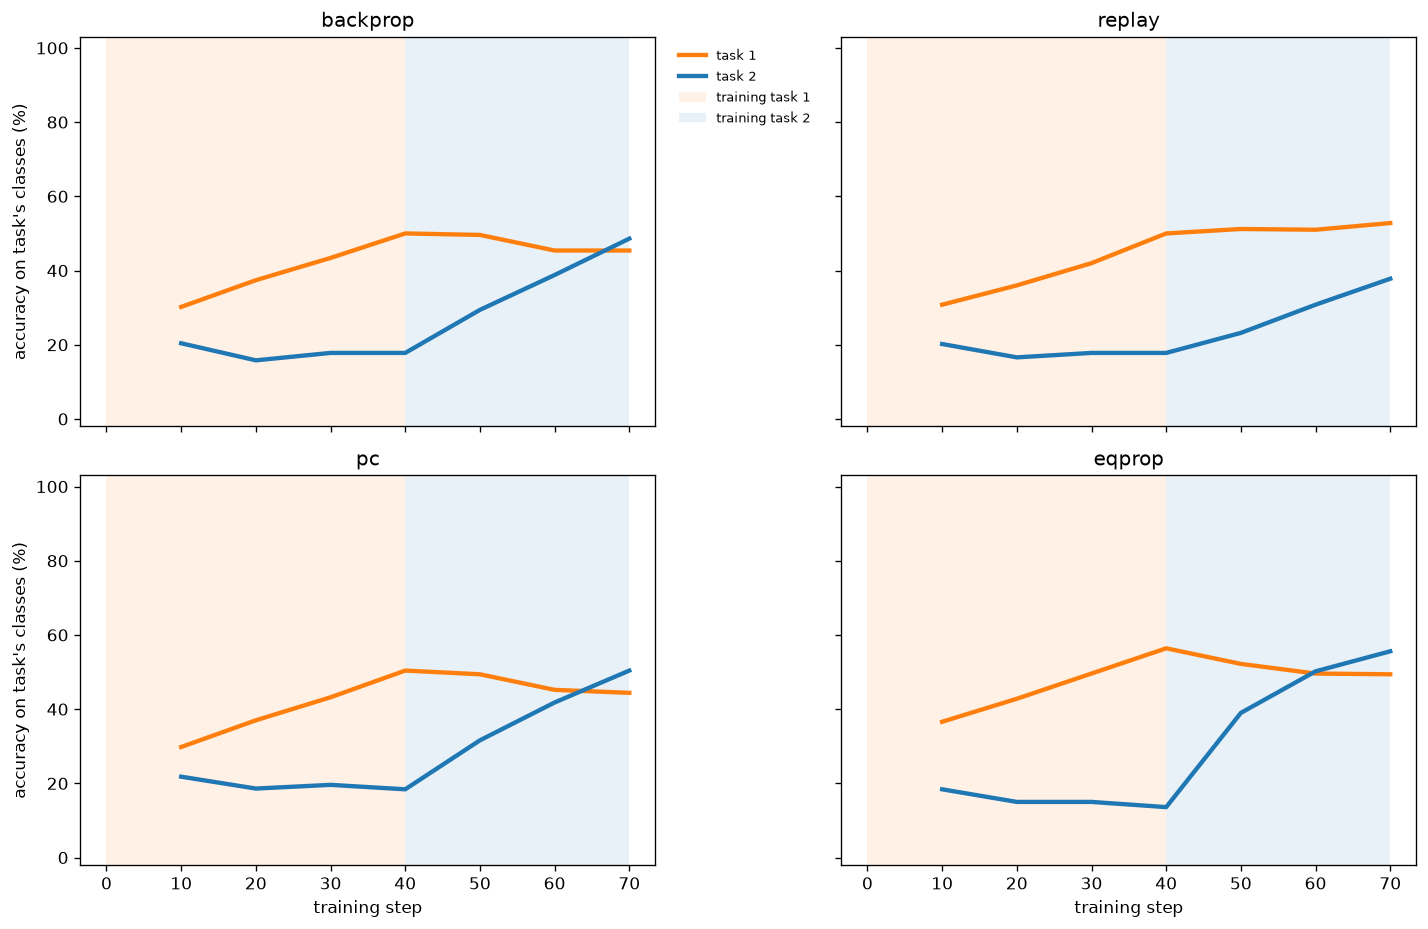
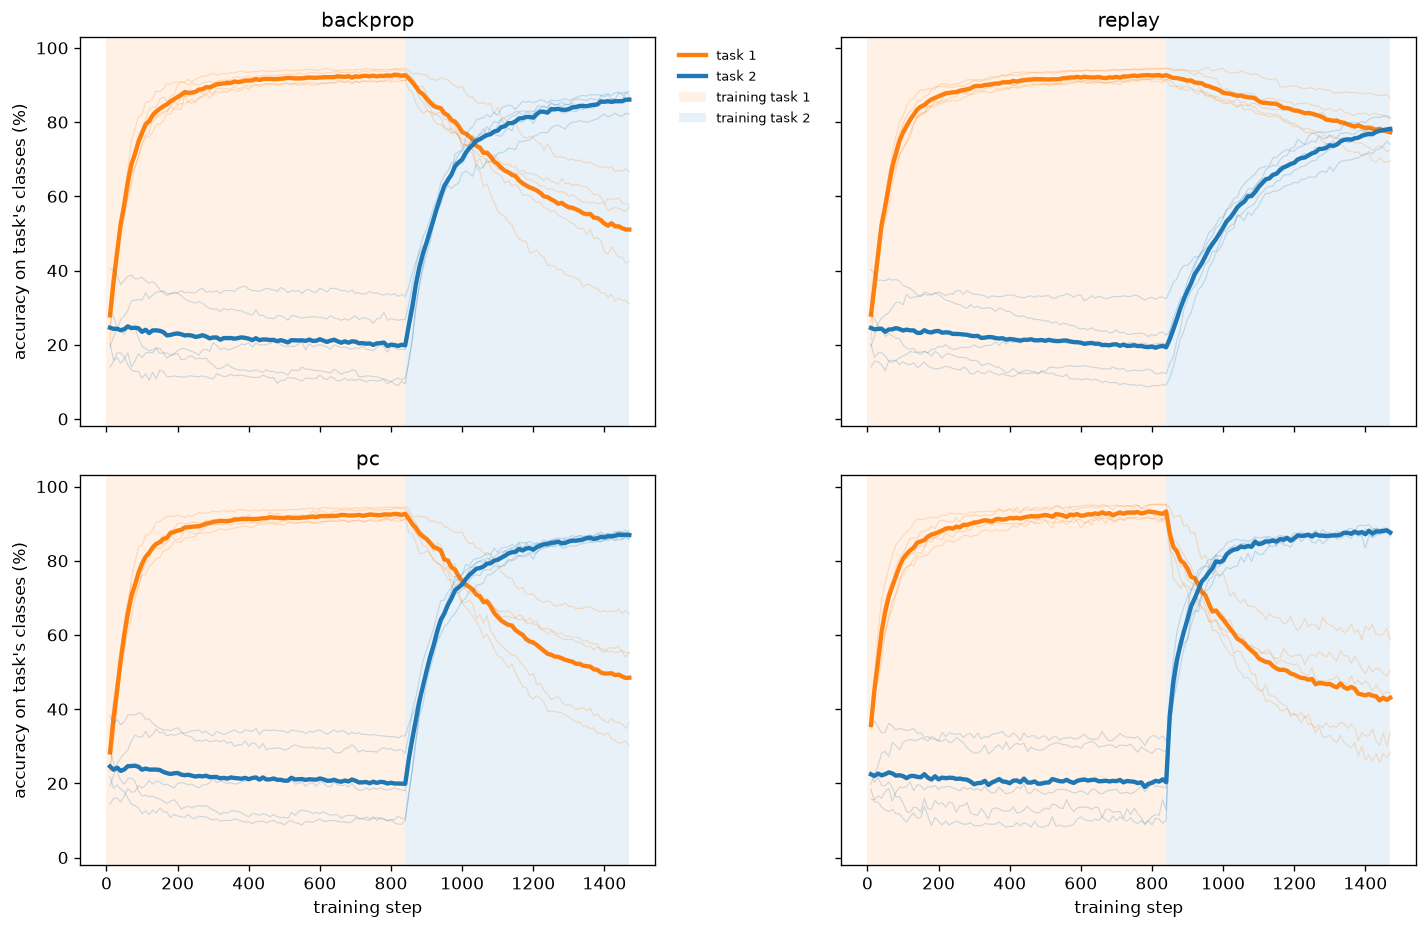
52 result: nothing separates from backprop except replay
Retention at the end of a fixed budget, 5 seeds, Domain-IL, H=32, learning
rates matched by 51:

  backprop 51.0+-6.3   replay 77.3+-3.0   pc 48.5+-6.6   eqprop 43.1+-5.5

PC sits 0.3 SE from backprop and EqProp 1.0 SE; only replay separates, at
3.7 SE. So the ordering in the means is not a result. Recorded as NO
DETECTED EFFECT, not as no effect: seed variance is +-6 points on a ~50%
mean while the four rules are matched to +-0.8% at the switch, so the spread
appears after the switch and detecting a 6-point difference would need
roughly 4x the seeds.

Two observations worth keeping. Area retained separates EqProp from backprop
at 2.2 SE where final retention manages 1.0 SE -- integrating the curve
beats sampling its endpoint, which is the metrics argument arriving from the
data. And task 1 is still falling when the budget ends in every non-replay
panel, so under a fixed budget "how much was forgotten" is partly "how long
did we run". Script 53 is the reading that does not have that problem.

diff --git a/claude_code_management/now.md b/claude_code_management/now.md
@@ -32,13 +32,28 @@ Started 2026-08-11.
 - [x] **43** the same, read at matched competence → the correction. This pair is the argument.
 - [x] **50** settling → PC fully settled; EqProp's stopping rule was truncating at init, fixed.
 - [x] **51** learning-rate calibration → matched to 1.25×.
-- [ ] **52** four-rule comparison, fixed budget ← running
+- [x] **52** four-rule comparison, fixed budget → **nothing separates except replay.**
+      Retention: backprop 51.0±6.3, replay 77.3±3.0, pc 48.5±6.6, eqprop 43.1±5.5. PC is 0.3 SE
+      from backprop, EqProp 1.0 SE, replay 3.7 SE.
 - [ ] **53** four-rule comparison, accuracy stopping ← running
 - [ ] **B1/B2/B3** metrics, from one set of backprop runs
 - [ ] **C2** six-cell factorial, **C1** NCM figure
 - [ ] **D** controlled comparison, then **E** why, then **F** does it generalise
 
 ## What we know
+- **No energy-based rule beat backprop at fixed budget (52).** Neither PC nor EqProp is
+  distinguishable from backprop on final retention; only replay is. Read this as *no detected
+  effect*, not as *no effect* — see the variance point below. `[EMPIRICAL]`
+- **Seed variance is the binding constraint, not the effect size.** ±6 points SEM on a ~50%
+  retention mean, with all four rules matched to ±0.8% at the switch — so the spread arises
+  after the switch, not from unequal starting competence. Detecting a 6-point difference needs
+  roughly 4× the seeds.
+- **Area retained is less noisy than endpoint retention.** EqProp vs backprop: 1.0 SE on final
+  retention, **2.2 SE on area**. Integrating the curve beats sampling its last point — an
+  argument for the metrics work that arrived from the data rather than from the literature.
+- **Task 1 is still falling when the budget ends.** The endpoint is not a resting place, so
+  under a fixed budget "how much was forgotten" is partly "how long did we run". Visible
+  directly in 52's figure; it is why 53 exists.
 - **The information survives.** NCM (classify from the hidden layer, output layer discarded)
   holds ~80% on task 1 while the network's own prediction reads 0.2%. With the hidden layer
   frozen, NCM is flat by construction and the prediction still collapses — so the collapse is
